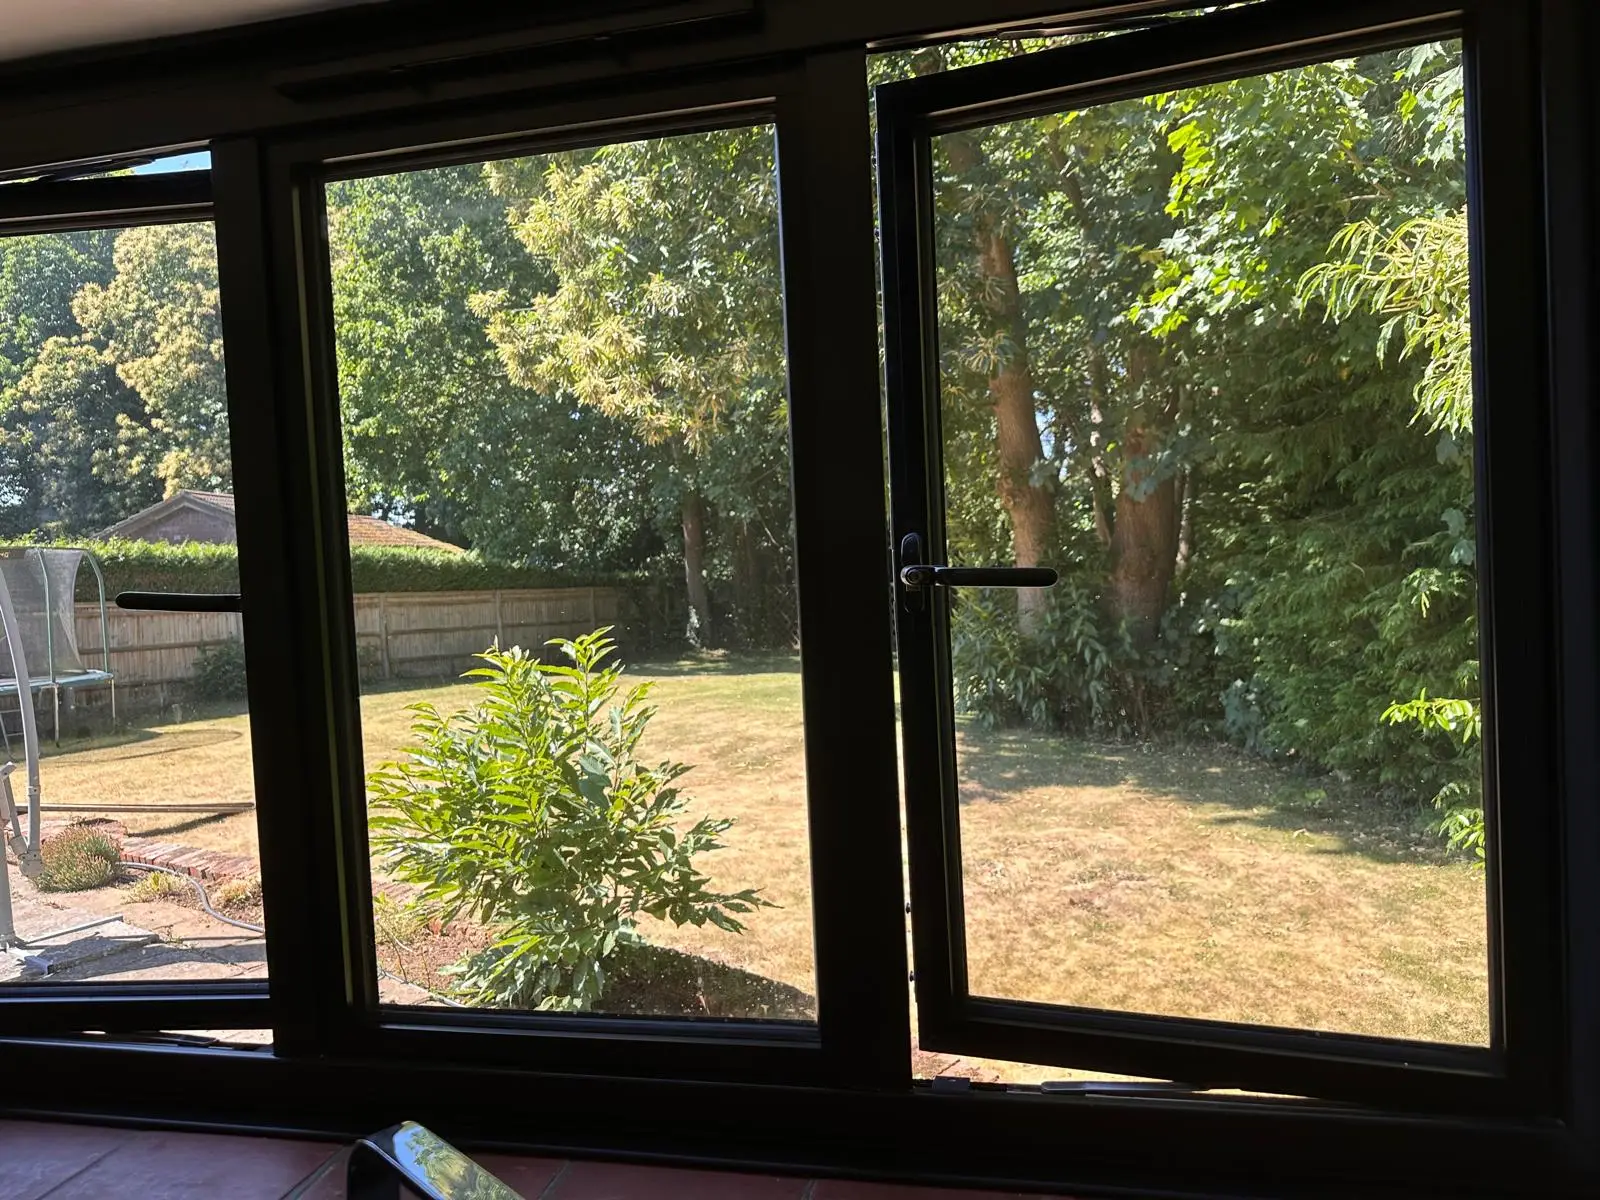
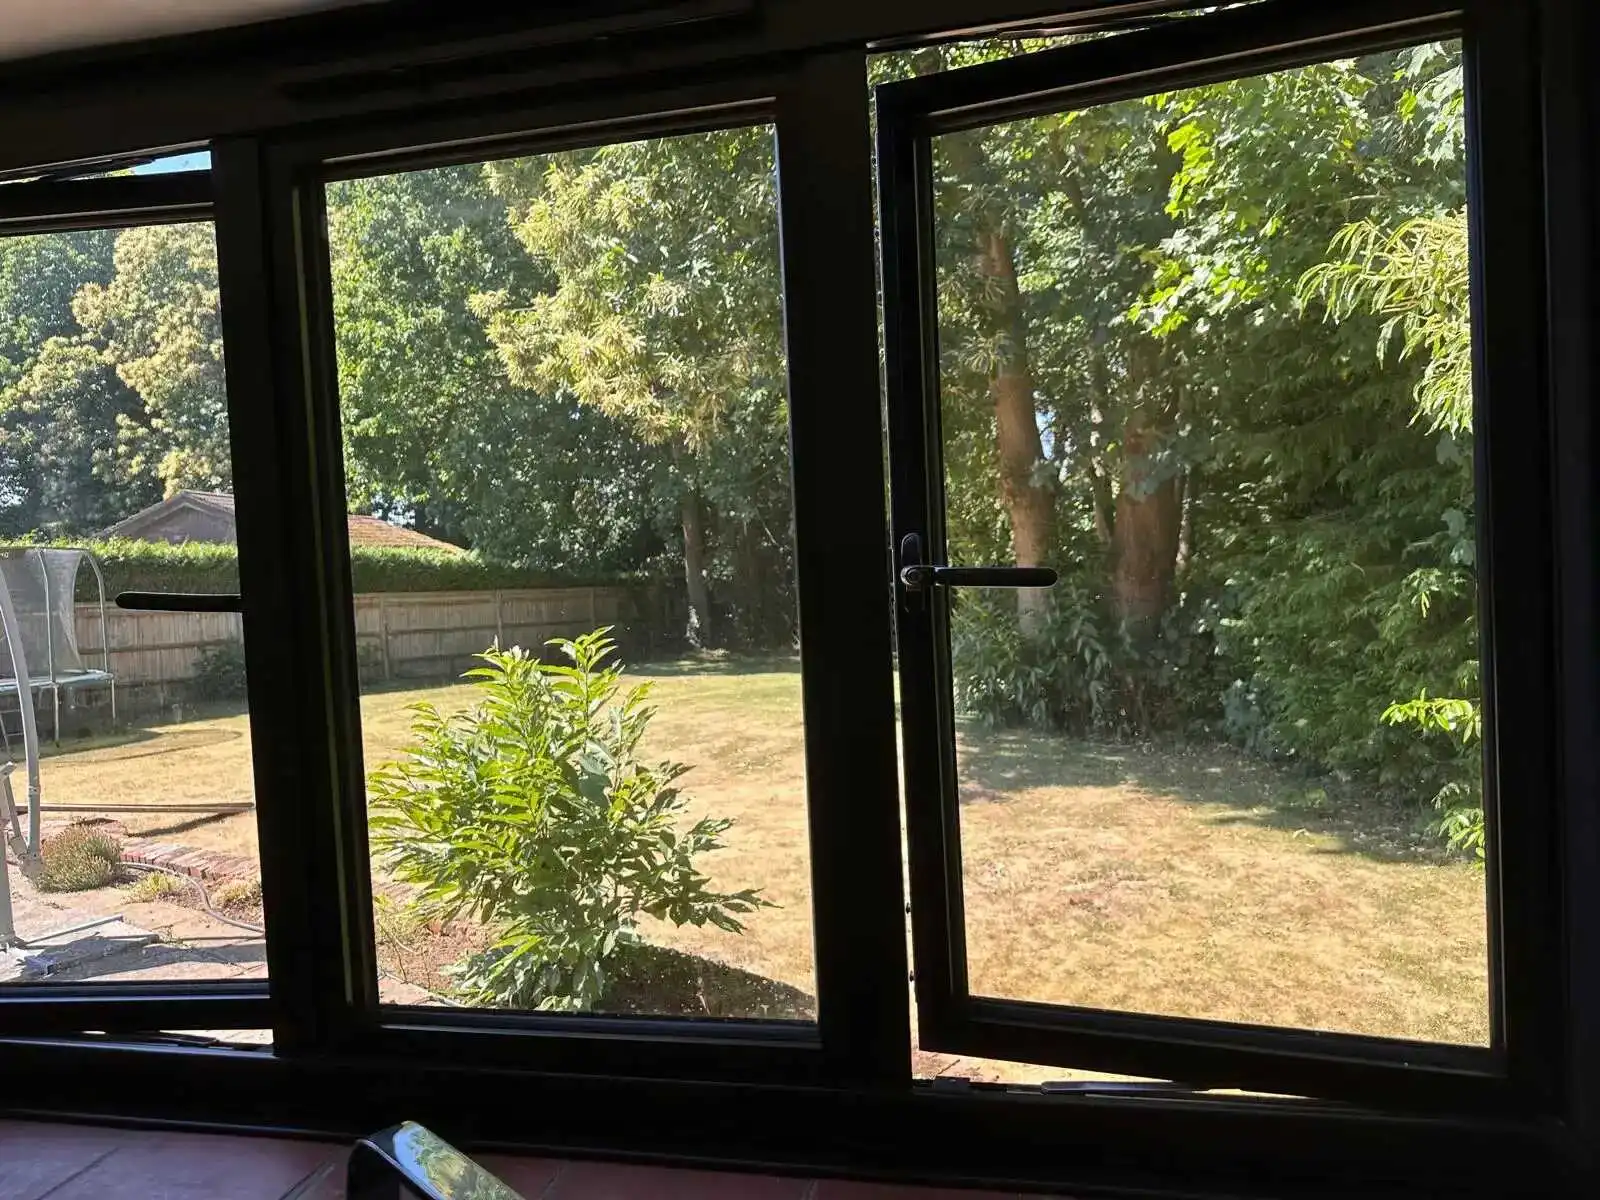
Complete image optimization - all images now under 200KB

diff --git a/index.html b/index.html
@@ -63,10 +63,7 @@
     <main>
         <section id="home" class="hero">
             <div class="hero-background">
-                <picture>
-                    <source srcset="assets/images/hero-shot.webp" type="image/webp">
-                    <img src="assets/images/hero-shot.jpg" alt="The Loft Godalming - Beautiful countryside accommodation" class="hero-bg-image">
-                </picture>
+                <img src="assets/images/hero-shot.jpg" alt="The Loft Godalming - Beautiful countryside accommodation" class="hero-bg-image">
             </div>
             <div class="hero-content">
                 <h2 class="hero-title">The Loft Godalming</h2>
@@ -139,10 +136,7 @@
                         <p>Complete independence with your own kitchen and bathroom on the ground floor. Everything you need for a comfortable stay.</p>
                     </div>
                     <div class="feature-card">
-                        <picture>
-                            <source srcset="assets/images/window-view.webp" type="image/webp">
-                            <img src="assets/images/window-view.jpg" alt="Beautiful Surrey countryside views" class="feature-image" loading="lazy">
-                        </picture>
+                        <img src="assets/images/window-view.jpg" alt="Beautiful Surrey countryside views" class="feature-image" loading="lazy">
                         <div class="feature-icon"><i class="fas fa-leaf"></i></div>
                         <h3>Countryside Views</h3>
                         <p>Wake up to beautiful views of the Surrey countryside from your bright and airy loft accommodation.</p>
@@ -339,10 +333,7 @@
                 <div class="gallery-caption">Spacious Living Area</div>
             </div>
             <div class="gallery-item">
-                <picture>
-                    <source srcset="assets/images/property-exterior.webp" type="image/webp">
-                    <img src="assets/images/property-exterior.jpg" alt="Exterior view of The Loft Godalming property" loading="lazy">
-                </picture>
+                <img src="assets/images/property-exterior.jpg" alt="Exterior view of The Loft Godalming property" loading="lazy">
                 <div class="gallery-caption">Property Exterior</div>
             </div>
             <div class="gallery-item">
@@ -474,14 +465,8 @@
                         <p>Our loft is perfectly positioned to give you the best of both worlds - the tranquility of countryside living with easy access to Godalming's vibrant town centre.</p>
                         
                         <div class="location-images">
-                            <picture>
-                                <source srcset="assets/images/loft-entrance.webp" type="image/webp">
-                                <img src="assets/images/loft-entrance.jpg" alt="Exterior view of the property and surrounding area" class="location-image" loading="lazy">
-                            </picture>
-                            <picture>
-                                <source srcset="assets/images/outdoor-space.webp" type="image/webp">
-                                <img src="assets/images/outdoor-space.jpg" alt="Outdoor garden space and grounds" class="location-image" loading="lazy">
-                            </picture>
+                            <img src="assets/images/loft-entrance.jpg" alt="Exterior view of the property and surrounding area" class="location-image" loading="lazy">
+                            <img src="assets/images/outdoor-space.jpg" alt="Outdoor garden space and grounds" class="location-image" loading="lazy">
                         </div>
                         
                         <h4>Nearby Amenities:</h4>
